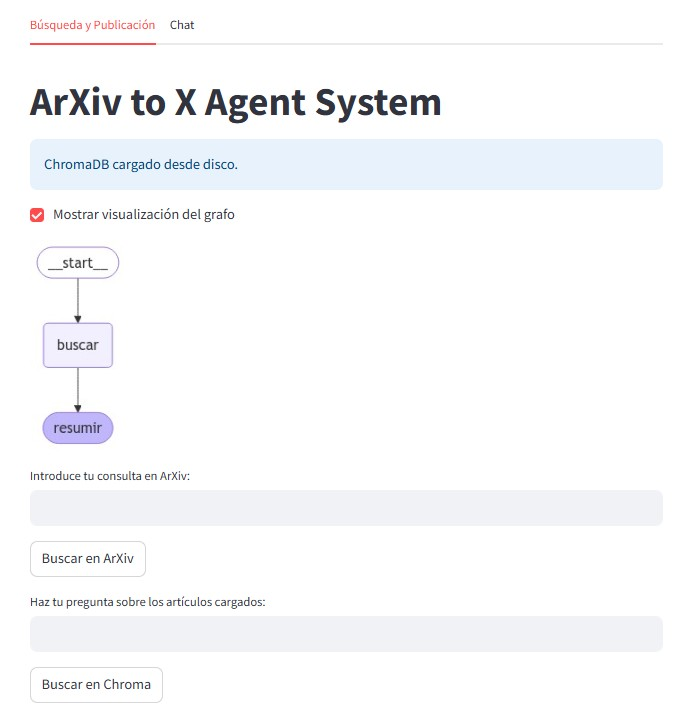
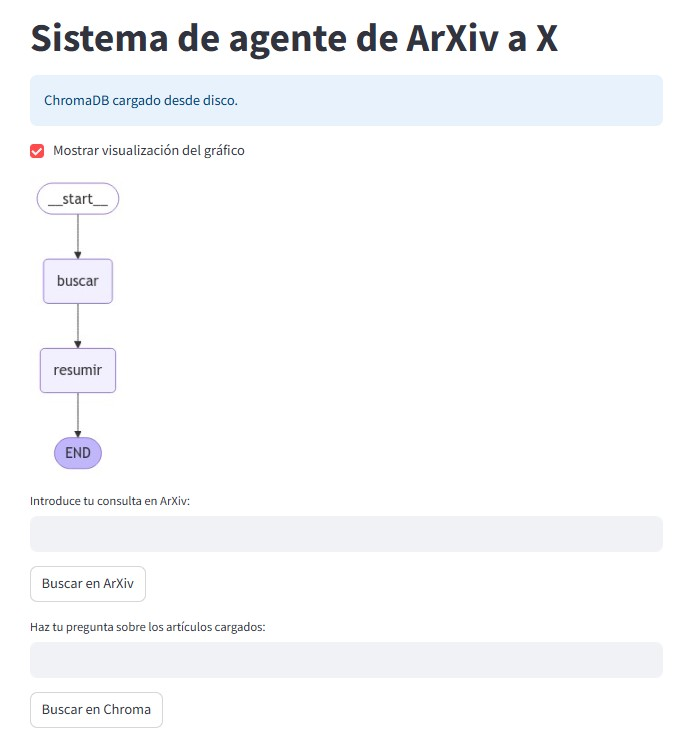
actulizacion de grafo (END)

diff --git a/app.py b/app.py
@@ -84,8 +84,10 @@ with tab1:
     graph_builder = StateGraph(AppState)
     graph_builder.add_node("buscar", lambda state: search_agent(state, root_dir))
     graph_builder.add_node("resumir", summarize_agent)
+    graph_builder.add_node("END", lambda state: state)
     graph_builder.set_entry_point("buscar")
     graph_builder.add_edge("buscar", "resumir")
+    graph_builder.add_edge("resumir", "END")
     graph = graph_builder.compile()
 
     if st.checkbox("Mostrar visualización del grafo"):
